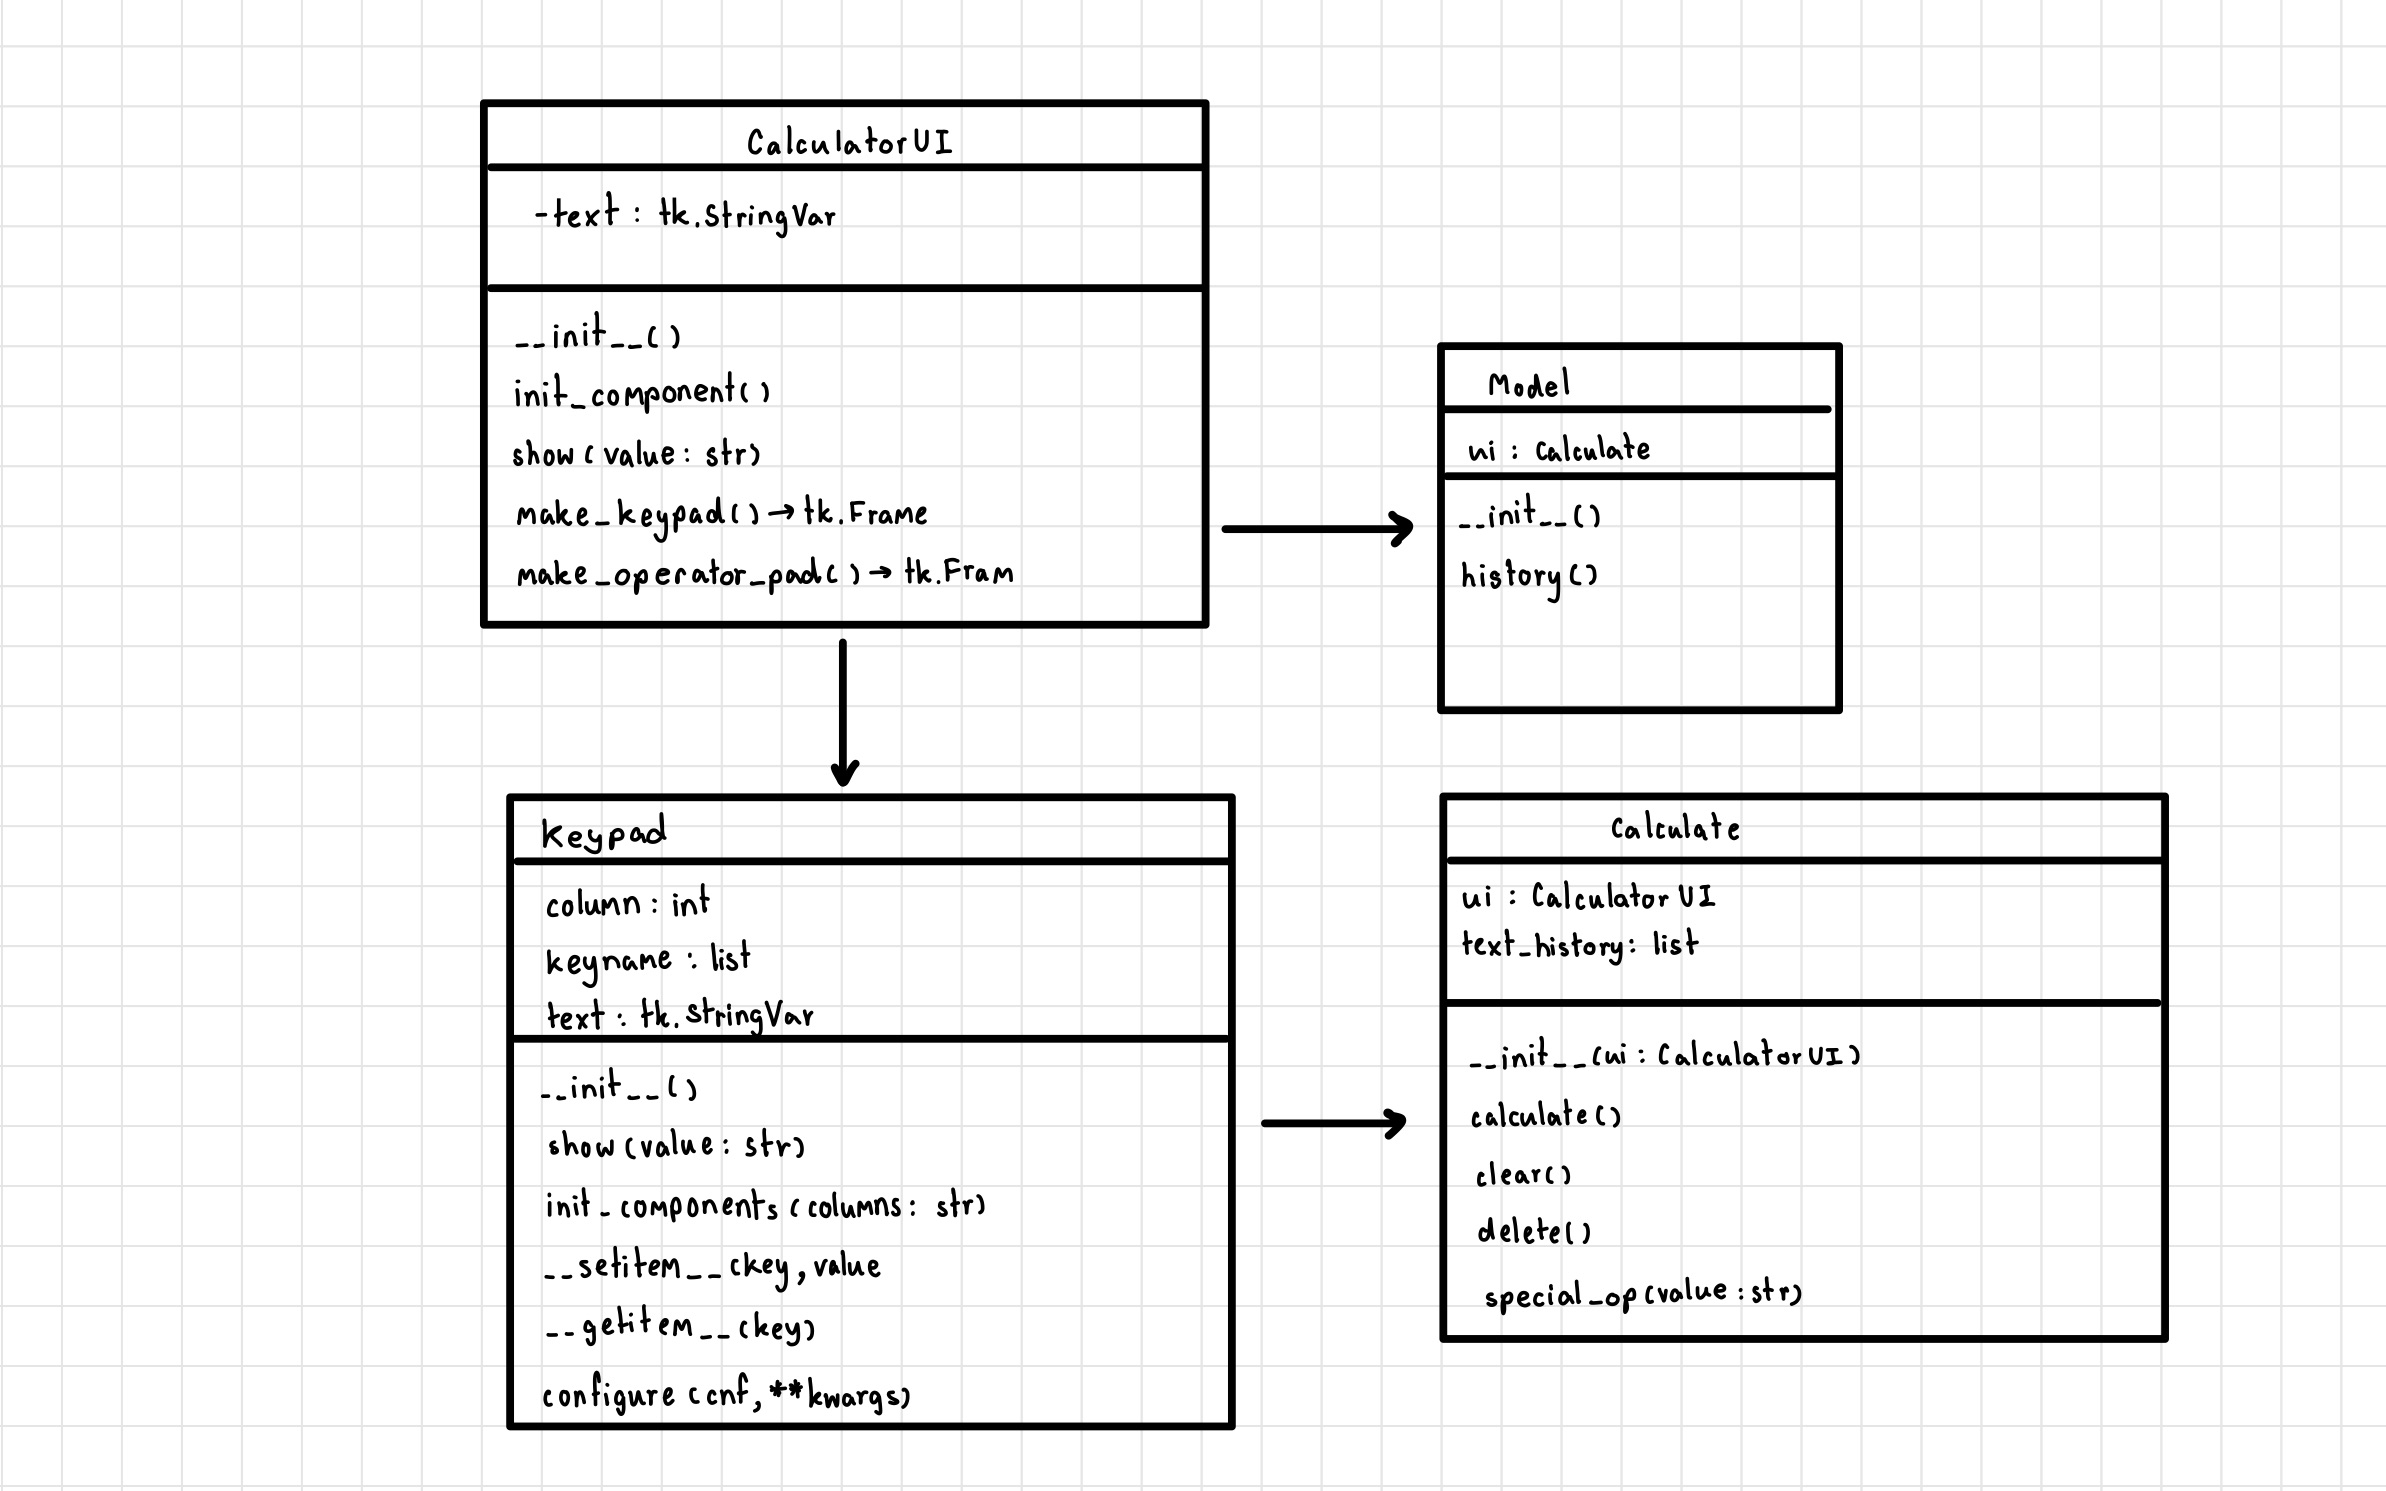
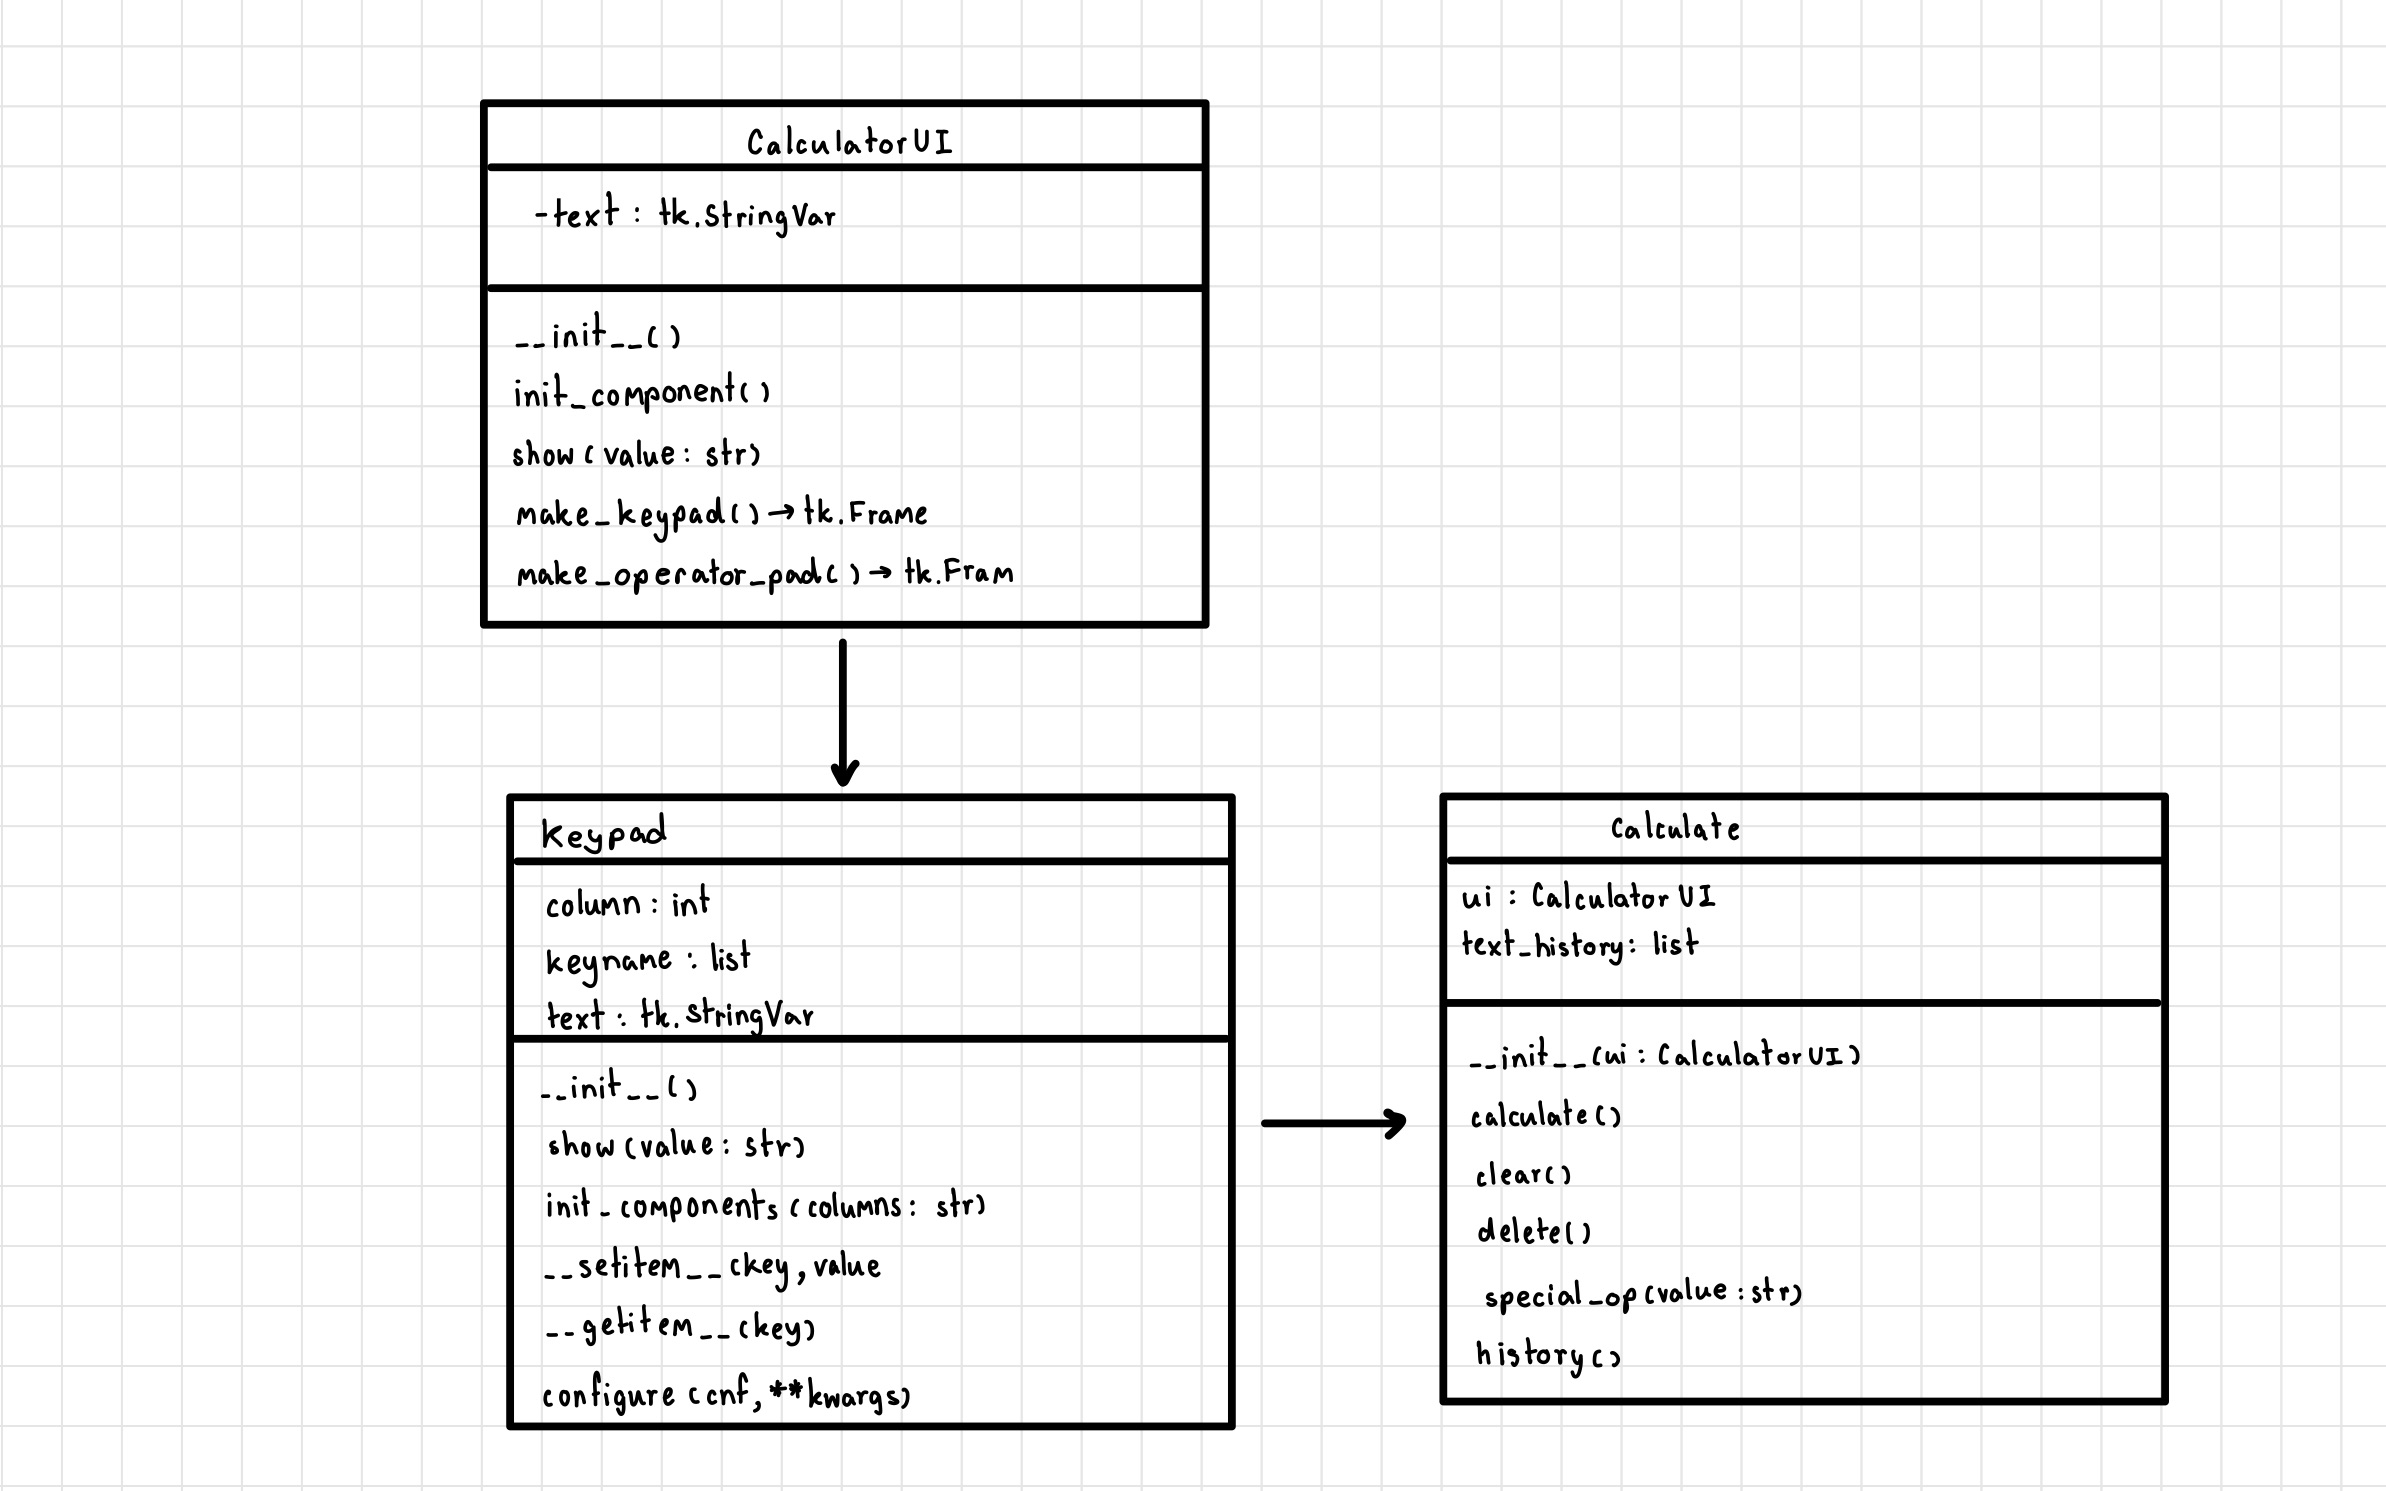
commit calculator

Changed region(s): [[0.5272, 0.216, 0.7754, 0.4936], [0.5893, 0.8947, 0.9304, 0.9564]]

diff --git a/Calculator_UI.py b/Calculator_UI.py
@@ -1,6 +1,6 @@
 import tkinter as tk
 from tkinter import ttk
-from Calculate import Calculate, Model
+from Calculate import Calculate
 
 class CalculatorUI(tk.Tk):
     def __init__(self):
@@ -11,12 +11,11 @@ class CalculatorUI(tk.Tk):
 
     def init_component(self):
         self.calculator = Calculate(self)
-        self.model = Model(self)
 
         menubar = tk.Menu(self)
         self.config(menu=menubar)
         self.menubar = tk.Menu(menubar, tearoff=0)
-        self.menubar.add_command(label='History', command=lambda: self.model.history())
+        self.menubar.add_command(label='History', command=lambda: self.calculator.history())
         self.menubar.add_separator()
         self.menubar.add_command(label='Exit', command=self.destroy)
         menubar.add_cascade(label='History and Exit', menu=self.menubar)
@@ -71,13 +70,28 @@ class CalculatorUI(tk.Tk):
         frame.grid_rowconfigure(0, weight=1)
         frame.grid_columnconfigure(0, weight=1)
 
-        button = tk.Button(frame, text='log', command=lambda: self.calculator.special_op('log'), fg='purple')
+        button = tk.Button(frame, text='ln', command=lambda: self.calculator.special_op('ln'), fg='purple')
         button.grid(row=7, column=0, sticky=tk.NSEW)
         frame.grid_rowconfigure(0, weight=1)
         frame.grid_columnconfigure(0, weight=1)
 
-        button = tk.Button(frame, text='=', command=self.calculator.calculate, fg='purple')
+        button = tk.Button(frame, text='log10', command=lambda: self.calculator.special_op('log10'), fg='purple')
         button.grid(row=8, column=0, sticky=tk.NSEW)
+        frame.grid_rowconfigure(0, weight=1)
+        frame.grid_columnconfigure(0, weight=1)
+
+        button = tk.Button(frame, text='log2', command=lambda: self.calculator.special_op('log2'), fg='purple')
+        button.grid(row=9, column=0, sticky=tk.NSEW)
+        frame.grid_rowconfigure(0, weight=1)
+        frame.grid_columnconfigure(0, weight=1)
+
+        button = tk.Button(frame, text='exp', command=lambda: self.calculator.special_op('exp'), fg='purple')
+        button.grid(row=10, column=0, sticky=tk.NSEW)
+        frame.grid_rowconfigure(0, weight=1)
+        frame.grid_columnconfigure(0, weight=1)
+
+        button = tk.Button(frame, text='=', command=self.calculator.calculate, fg='purple')
+        button.grid(row=11, column=0, sticky=tk.NSEW)
         frame.grid_rowconfigure(0, weight=1)
         frame.grid_columnconfigure(0, weight=1)
         return frame

diff --git a/Calculate.py b/Calculate.py
@@ -1,7 +1,7 @@
 import tkinter as tk
 from tkinter import ttk
 import pygame
-from math import sqrt, log
+from math import sqrt, log10, log2, exp, log
 
 
 class Calculate():
@@ -29,31 +29,31 @@ class Calculate():
     def delete(self):
         if self.ui.text.get()[-1] == '(' and self.ui.text.get()[-2] == 'g':
             self.ui.text.set(self.ui.text.get()[:-3])
+        if self.ui.text.get()[-1] == '(' and self.ui.text.get()[-2] == 'p':
+            self.ui.text.set(self.ui.text.get()[:-3])
         if self.ui.text.get()[-1] == '(' and self.ui.text.get()[-2] == 't':
             self.ui.text.set(self.ui.text.get()[:-4])
+        if [self.ui.text.get()[-1] == '(' and self.ui.text.get()[-2] == 'n']:
+            self.ui.text.set(self.ui.text.get()[:-2])
         self.ui.text.set(self.ui.text.get()[:-1])
 
     def special_op(self, value):
+        if self.ui.text.get() == '':
+            self.ui.text.set(f'{value}()')
         if [*str(self.ui.text.get())][-1] in ['+', '-', '*', '/']:
             self.ui.text.set(f'{self.ui.text.get()}{value}(')
-        else:
+        if isinstance([*str(self.ui.text.get())][-1], int):
             self.ui.text.set(f'{value}({self.ui.text.get()})')
 
-
-class Model(Calculate):
-    def __init__(self, ui):
-        super().__init__(Calculate)
-        self.ui = ui
-
     def history(self):
-        self.history_window = tk.Toplevel()  # Use Toplevel for a separate window
+        self.history_window = tk.Toplevel()
         self.history_window.title('Calculate History')
         self.history_combobox = ttk.Combobox(self.history_window)
         history_values = []
         for text in self.text_history:
-            history_values.append([f'{text[0]} = {text[1]}'])
+            history_values.append(f'{text[0]} = {text[1]}')
         self.history_combobox['values'] = history_values
         self.history_combobox.pack(pady=10)
-        self.history_combobox.bind("<<ComboboxSelected>>", self.ui.text.set(self.history_combobox.get()))
-
+        get_history = self.history_combobox.get()
+        self.history_combobox.bind("<<ComboboxSelected>>", self.ui.text.set(str(get_history)))
 

diff --git a/README.md b/README.md
@@ -1,1 +1,12 @@
-# Calculator
+## Calculator
+For my calculator project, you can perform calculations using the following operators:
+basic operator : plus(+), minus(-), multiply(*) and divide(/).
+advance operator : ln, log10, log2, exp, sqrt and power by using '**' operator.
+
+# How to use my program.
+- Run the program by executing 'python Calculator.py' in the terminal.
+- Enter numbers and operators to perform calculations.
+- View your calculation history by selecting the 'History' option from the menu bar.
+- To exit the program, choose 'Exit' from the menu bar.
+
+# Hope you enjoy my program.
